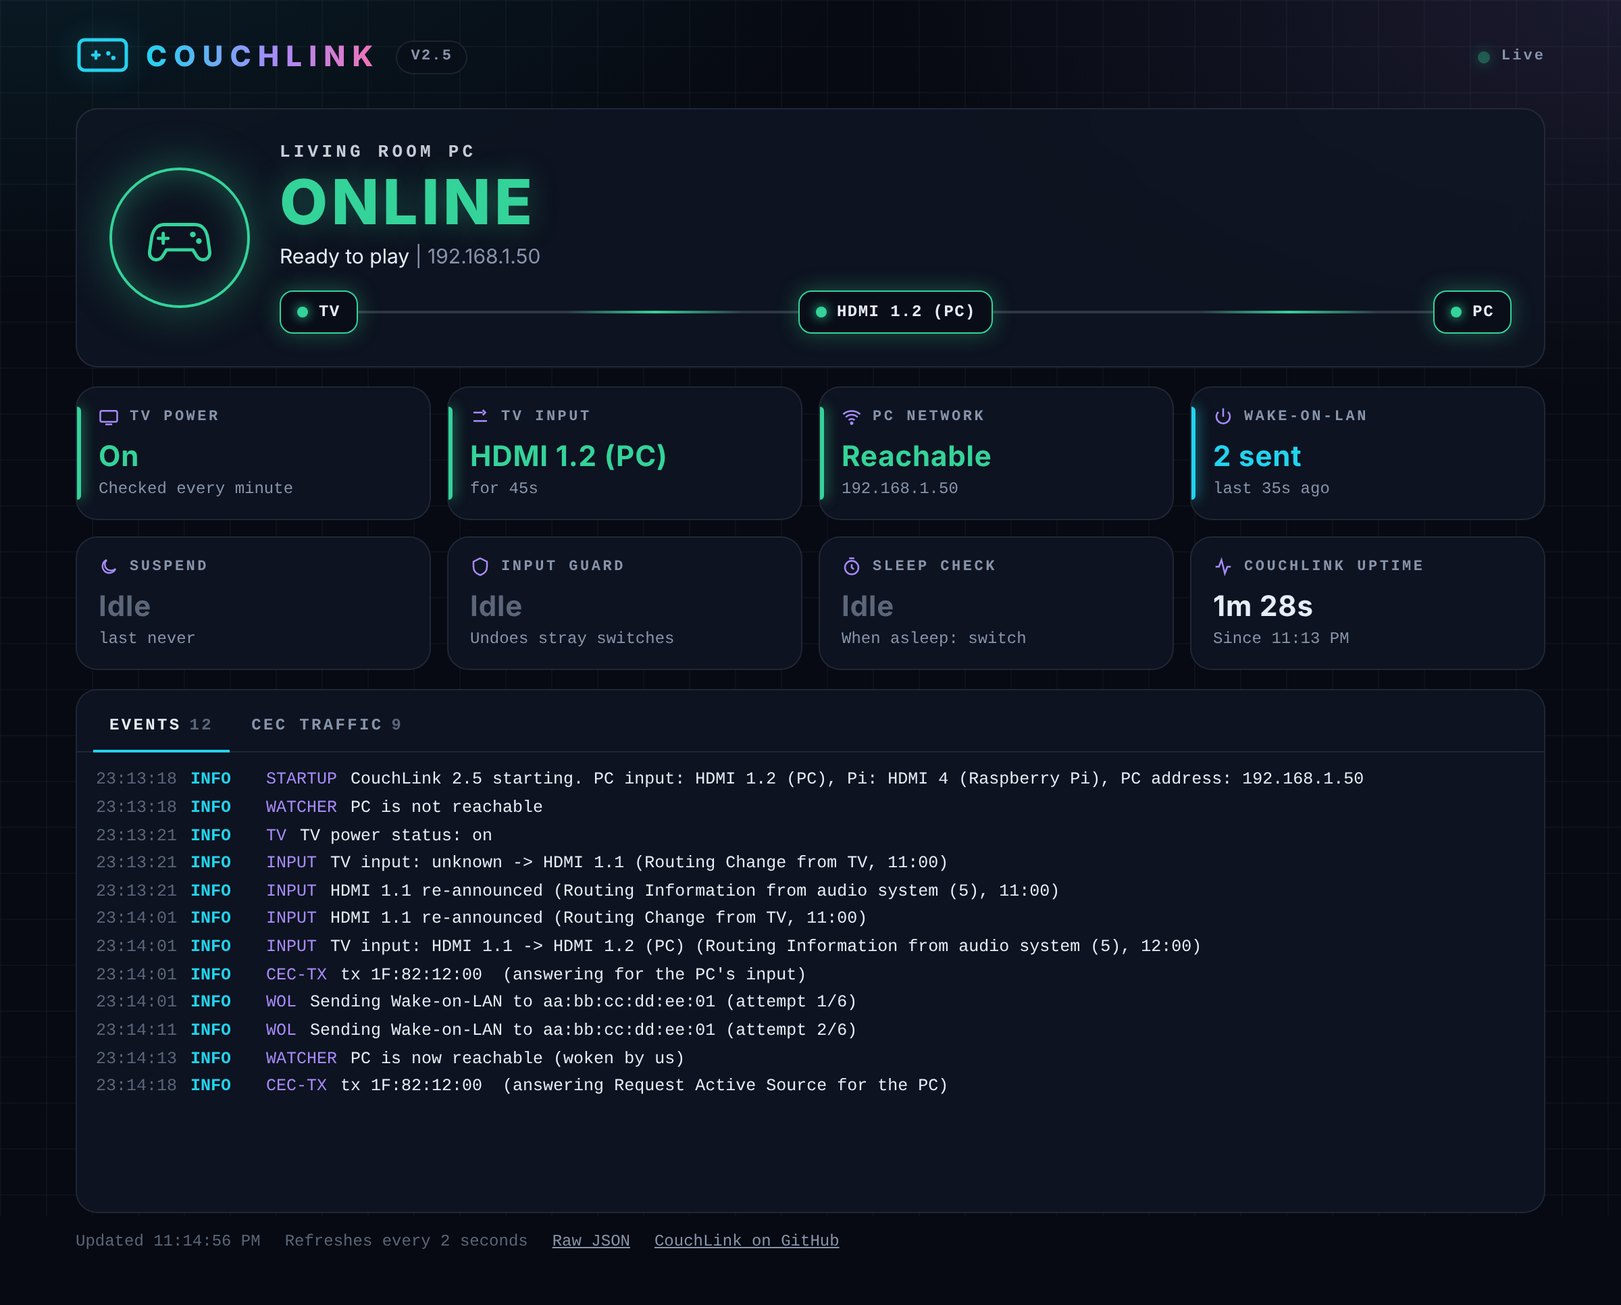
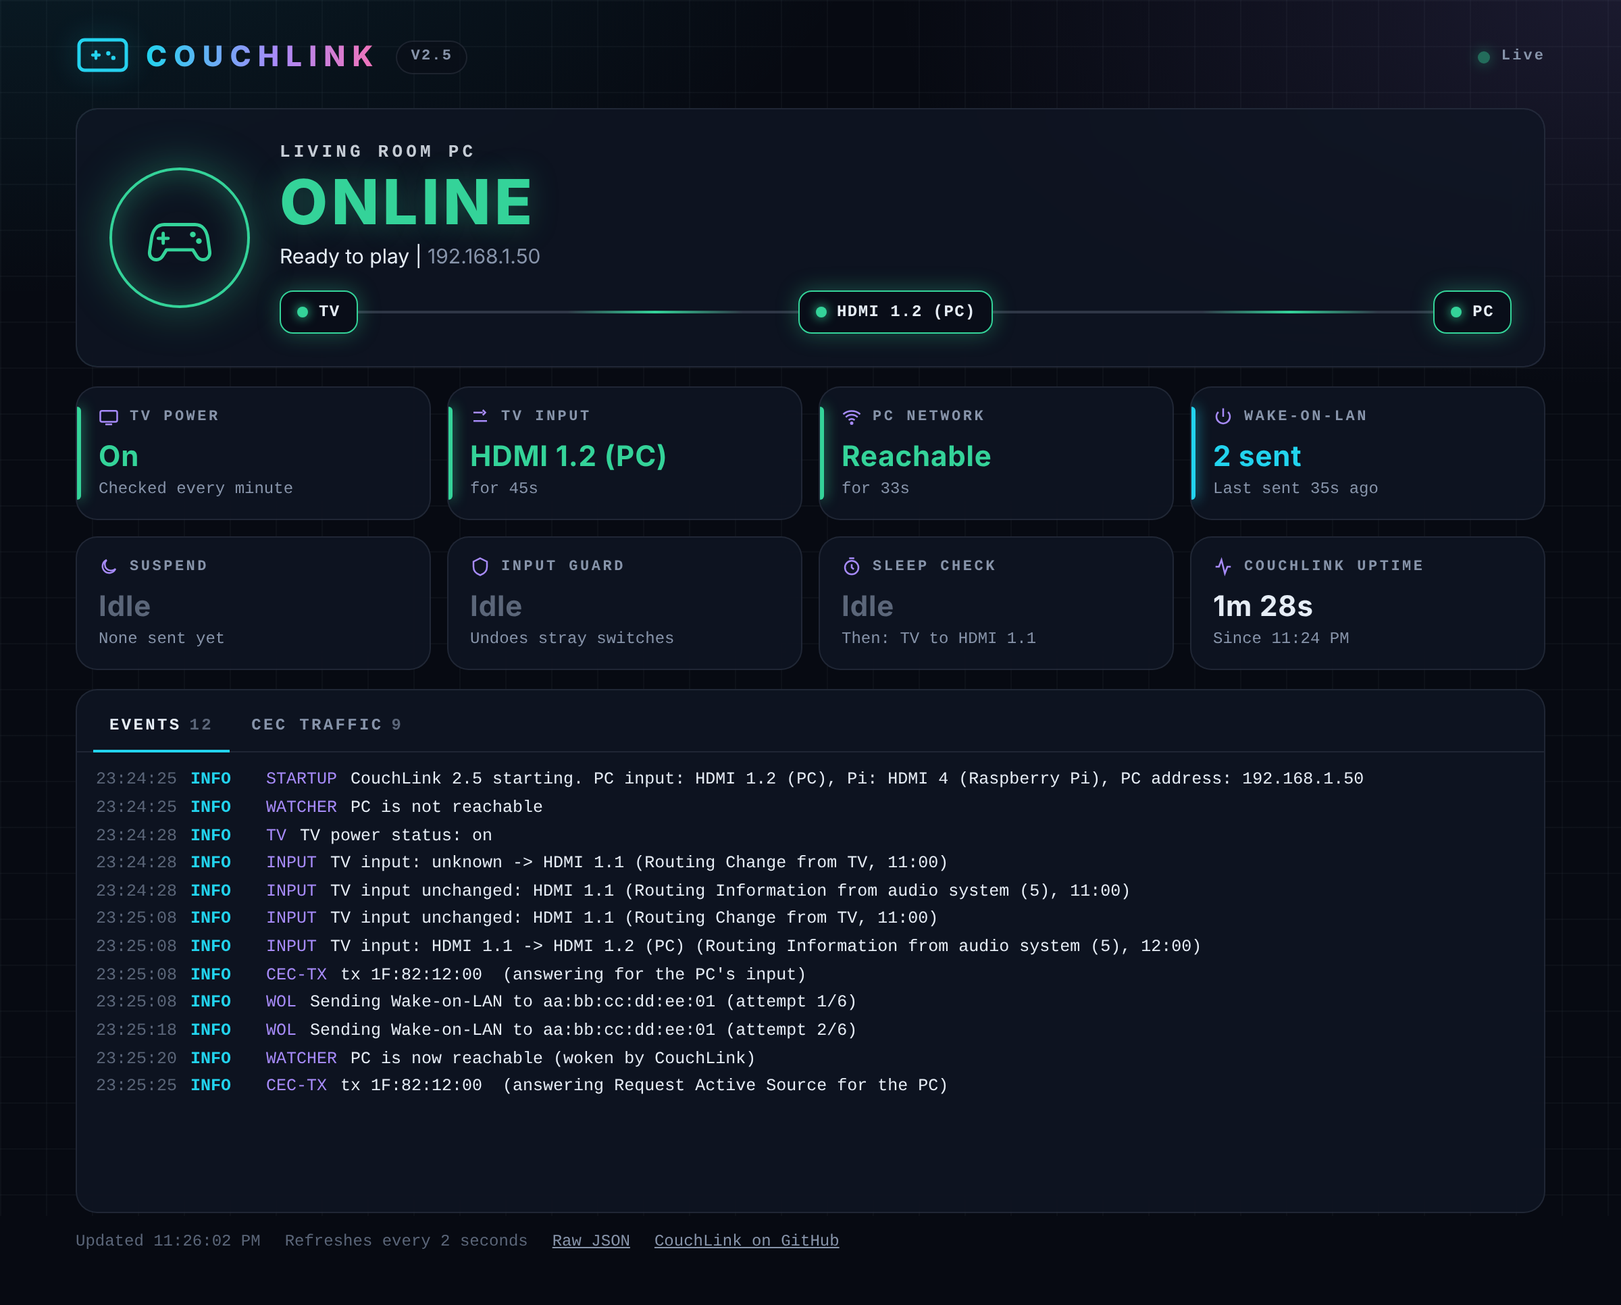
Show how long the PC has been up or down, and reword status text
The PC network tile now says how long the PC has been in its current
state, for example "Reachable / for 1h 20m" or "Off / for 3d 2h". If the
PC was already up or down when CouchLink started, it says "for at least".
The API has new pc_state_seconds and pc_state_since_start fields.

Status page text:
- Wake-on-LAN and Suspend say "Last sent 35s ago" or "None sent yet"
  instead of "last 35s ago" and "last never".
- Sleep check says what happens next, for example "Then: TV to HDMI 1.1",
  instead of "When asleep: switch".
- TV power says how often the TV is checked from power_poll_interval
  instead of always "Checked every minute".
- Clearer status lines, such as "The TV is on another input" and
  "Waiting to hear which input the TV is on".
- On a phone, the PC's address goes on its own line instead of wrapping
  after a separator.
- Durations of a day or more show days, for example "3d 2h".

Log text:
- Input switch recoveries say what the TV did and what CouchLink does
  about it, for example "TV switched to HDMI 4 (Raspberry Pi) while the PC
  is on. Switching it back to the PC".
- "PC went offline while on screen", with a clearer explanation of the
  sleep check.
- "woken by CouchLink" instead of "woken by us", and the auto-switch
  cooldown message says how long ago the last switch was.

Changed region(s): [[0.1875, 0.6832, 0.5938, 0.7143], [0.5938, 0.4658, 0.625, 0.4969], [0.4062, 0.8075, 0.4375, 0.8385]]

diff --git a/couchlink.py b/couchlink.py
@@ -371,6 +371,7 @@ class Controller:
         self.pc_seen_up = False         # PC answered ping during this stay on its input
         self.pc_offline_since = None    # PC dropped off while on screen, waiting to confirm sleep
         self.pc_down_since = None       # PC stopped answering ping
+        self.first_ping_at = None       # first ping result, so "since" times before it are unknown
         self.power_note = None          # (what, time): the PC announced sleep, reboot or poweroff
         self.power_link = None          # (state, time): the power watcher's SSH session, up | closed | lost
         self.timers = []                # (due, description, function)
@@ -439,7 +440,7 @@ class Controller:
         """Record the TV's input. source: tv | self | startup | standby | power."""
         prev = self.tv_input
         if addr == prev:
-            log("INPUT", f"{self.input_name(addr)} re-announced{detail}")
+            log("INPUT", f"TV input unchanged: {self.input_name(addr)}{detail}")
             return False
         self.tv_input = addr
         self.input_since = self.now()
@@ -526,8 +527,8 @@ class Controller:
                 and f"{p[0]}:{p[1]}" == self.cfg.pi_address):
             return
         if self.tv_boot_started is None and self.tv_input in self.pc_set and self.pc_online:
-            log("RECOVER", f"cec-client announced the Pi's own input ({self.input_name(self.cfg.pi_address)}) "
-                           "while the PC is awake. Pulling the TV back to the PC")
+            log("RECOVER", f"cec-client made the Pi the active source ({self.input_name(self.cfg.pi_address)}) "
+                           "while the PC is on. Switching the TV back to the PC")
             self.pull_back("undoing a switch to the Pi's own input")
 
     def on_announcement(self, initiator, opcode, addr):
@@ -539,25 +540,25 @@ class Controller:
         t = self.now()
         if self.tv_input in self.pc_set and addr not in self.pc_set:
             if self.tv_boot_started is not None:
-                log("RECOVER", f"{self.input_name(addr)} announced while the TV is starting{detail}. "
-                               "Ignored: the PC's input is claimed once the TV reports that it is on")
+                log("RECOVER", f"Ignoring {self.input_name(addr)}{detail}: the TV is still starting. "
+                               "It is switched to the PC once it reports that it is on")
                 return
             if t < self.tv_settle_until:
-                log("RECOVER", f"{self.input_name(addr)} announced while the TV finishes starting{detail}. "
-                               "Pulling the TV back to the PC")
+                log("RECOVER", f"TV switched to {self.input_name(addr)} while it was still starting{detail}. "
+                               "Switching it back to the PC")
                 self.pull_back("undoing a switch made while the TV was starting")
                 return
             if addr == self.cfg.pi_address and self.pc_online:
-                log("RECOVER", f"{self.input_name(addr)} announced while the PC is awake{detail}. "
-                               "The Pi's own input is never kept while the PC is on: pulling the TV back")
+                log("RECOVER", f"TV switched to {self.input_name(addr)} while the PC is on{detail}. "
+                               "Switching it back to the PC")
                 self.pull_back("undoing a switch to the Pi's own input")
                 return
         if (self.tv_input in self.pc_set and addr in self.suspects and t < self.guard_until
                 and self.guard_count < self.cfg.max_guard_recoveries):
             self.guard_count += 1
-            log("RECOVER", f"{self.input_name(addr)} announced shortly after switching to the PC{detail}. "
-                           f"Treating it as automatic: pulling the TV back to the PC "
-                           f"({self.guard_count}/{self.cfg.max_guard_recoveries}), not suspending")
+            log("RECOVER", f"TV switched to {self.input_name(addr)} right after switching to the PC{detail}. "
+                           f"Treating it as automatic and switching back "
+                           f"({self.guard_count}/{self.cfg.max_guard_recoveries}). The PC stays awake")
             self.after(self.cfg.guard_delay, "guard",
                        lambda: self.assert_pc_input("undoing an automatic switch after wake"))
             return
@@ -672,6 +673,7 @@ class Controller:
         if online:
             self.lookup_pc_name()
         if prev is None:
+            self.first_ping_at = t
             if online:
                 self.pc_online_since = t
             else:
@@ -689,9 +691,9 @@ class Controller:
                 log("SUSPEND", "Confirmed: the PC went to sleep")
             elif self.desired() == "awake" and self.pc_seen_up:
                 self.pc_offline_since = t
-                log("WATCHER", f"PC dropped off while on screen. If it stays offline for "
-                               f"{self.cfg.pc_sleep_confirm}s it was put to sleep or turned off on purpose, "
-                               f"and it won't be woken again")
+                log("WATCHER", f"PC went offline while on screen. If it stays offline for "
+                               f"{self.cfg.pc_sleep_confirm}s, CouchLink takes it as put to sleep or "
+                               f"turned off on purpose and won't wake it again")
             return
         self.pc_online_since = t
         was = self.power_note[0] if self.power_note else None
@@ -705,15 +707,15 @@ class Controller:
         ours = self.last_wol is not None and t - self.last_wol <= self.cfg.wake_correlation
         d = self.desired()
         if d == "awake":
-            log("WATCHER", "PC is now reachable" + (" (woken by us)" if ours else ""))
+            log("WATCHER", "PC is now reachable" + (" (woken by CouchLink)" if ours else ""))
             # Its HDMI outputs just came alive. This is when a soundbar or TV may switch by itself.
             self.guard_until = max(self.guard_until, t + self.cfg.guard_window)
             self.after(2.0, "soundbar audio", self.request_soundbar_audio)
         elif ours:
-            log("WATCHER", "PC came online after our WoL, but the TV has left its input. "
-                           "It will be suspended")
+            log("WATCHER", "PC woke up from CouchLink's Wake-on-LAN, but the TV has left its input. "
+                           "Putting it back to sleep")
         else:
-            log("WATCHER", "PC came online by itself")
+            log("WATCHER", "PC woke up by itself")
             self.auto_switch_to_pc()
 
     def handle_pc_slept(self):
@@ -740,10 +742,11 @@ class Controller:
         tv_off = self.tv_power == "standby" or self.tv_input == "standby"
         if mode == "never" or (mode == "if_tv_on" and tv_off):
             log("WATCHER", f"Not switching the TV (auto_switch_on_pc_wake = \"{mode}\"). "
-                           "The PC will be suspended if the TV stays elsewhere")
+                           "The PC goes back to sleep if the TV stays on another input")
             return
         if self.last_auto_switch is not None and t - self.last_auto_switch < self.cfg.auto_switch_cooldown:
-            log("WATCHER", "Not switching the TV: auto-switch cooldown")
+            log("WATCHER", f"Not switching the TV: it was switched to the PC less than "
+                           f"{self.cfg.auto_switch_cooldown}s ago (auto_switch_cooldown)")
             return
         self.last_auto_switch = t
         self.cec("on 0", "PC woke by itself: turning the TV on")
@@ -781,7 +784,7 @@ class Controller:
     def on_suspend_done(self, returncode, detail):
         self.suspend_inflight = False
         if returncode == 0:
-            log("SUSPEND", "Suspend command accepted, waiting for the PC to drop off the network")
+            log("SUSPEND", "Suspend command accepted, waiting for the PC to go offline")
         elif returncode == 255:
             log("SUSPEND", f"SSH ended with 255 ({detail or 'connection closed'}). That can be "
                            "normal if the PC suspended mid-command. Checking with ping", level="WARN")
@@ -864,8 +867,8 @@ class Controller:
         if self.last_suspend is not None and t - self.last_suspend < self.cfg.suspend_retry_interval:
             return
         if self.suspend_attempts >= self.cfg.max_suspend_attempts:
-            log("SUSPEND", f"Giving up after {self.suspend_attempts} attempts. The PC is still "
-                           f"reachable while the TV is on {self.input_name(self.tv_input)}", level="ERROR")
+            log("SUSPEND", f"Giving up after {self.suspend_attempts} suspend attempts. The PC still "
+                           f"answers while the TV is on {self.input_name(self.tv_input)}", level="ERROR")
             self.sleep_gave_up = True
             return
         self.suspend_attempts += 1
@@ -877,6 +880,16 @@ class Controller:
         self.actions.suspend()
 
     # ---- status ---------------------------------------------------------
+    def pc_state_started(self):
+        """When the PC last came up or went down, as far as CouchLink has seen."""
+        if self.pc_online is None:
+            return None
+        return self.pc_online_since if self.pc_online else self.pc_down_since
+
+    def pc_state_seconds(self, t):
+        since = self.pc_state_started()
+        return int(t - since) if since is not None else None
+
     def snapshot(self):
         t = self.now()
         return {
@@ -888,6 +901,9 @@ class Controller:
             "pc_should_be": self.desired() or "unknown",
             "pc_reachable": self.pc_online,
             "pc_power": self.power_state() or "unknown",
+            "pc_state_seconds": self.pc_state_seconds(t),
+            "pc_state_since_start": (self.first_ping_at is not None
+                                     and self.pc_state_started() == self.first_ping_at),
             "wol_attempts": self.wol_attempts,
             "suspend_attempts": self.suspend_attempts,
             "guard_active": t < self.guard_until and self.tv_input in self.pc_set,
@@ -899,6 +915,9 @@ class Controller:
             "pc_name": self.pc_name,
             "pc_inputs": [self.input_name(a) for a in self.cfg.pc_addresses],
             "on_pc_sleep": self.cfg.on_pc_sleep,
+            "on_pc_sleep_target": (self.input_name(self.cfg.pc_sleep_switch_to)
+                                   if self.cfg.pc_sleep_switch_to else None),
+            "power_poll_interval": self.cfg.power_poll_interval,
             "last_wol_seconds_ago": int(t - self.last_wol) if self.last_wol is not None else None,
             "last_suspend_seconds_ago": int(t - self.last_suspend) if self.last_suspend is not None else None,
             "uptime_seconds": int(t - self.started_at),
@@ -1346,6 +1365,8 @@ footer a { color: var(--muted); }
   .orb svg { width: 34px; height: 34px; }
   .state { font-size: 28px; }
   .sub { font-size: 14px; }
+  .sub .sep { display: none; }
+  .sub .muted { display: block; }
   .path { margin-left: -80px; }
   .node { padding: 7px 9px; font-size: 11px; }
   .grid { gap: 10px; }
@@ -1439,11 +1460,18 @@ footer a { color: var(--muted); }
     if (s === null || s === undefined) return "-";
     s = Math.max(0, Math.floor(s));
     var h = Math.floor(s / 3600), m = Math.floor((s % 3600) / 60), x = s % 60;
+    var days = Math.floor(h / 24);
+    if (days) return days + "d " + (h % 24) + "h";
     if (h) return h + "h " + m + "m";
     if (m) return m + "m " + x + "s";
     return x + "s";
   }
-  function ago(s) { return (s === null || s === undefined) ? "never" : dur(s) + " ago"; }
+  function lastSent(s) { return (s === null || s === undefined) ? "None sent yet" : "Last sent " + dur(s) + " ago"; }
+  function every(s) {
+    if (!s) return "Checked at startup";
+    if (s % 60 === 0) return s === 60 ? "Checked every minute" : "Checked every " + s / 60 + " minutes";
+    return "Checked every " + s + "s";
+  }
   function set(id, text, cls) {
     var el = $(id);
     el.textContent = text;
@@ -1455,14 +1483,14 @@ footer a { color: var(--muted); }
     var want = d.pc_should_be, up = d.pc_reachable, power = d.pc_power;
     var waiting = want === "awake" ? "The TV is still on the PC's input" : "Waiting for the TV to switch to it";
     if (want === "awake" && up) return ["online", "Online", "Ready to play"];
-    if (want === "asleep" && up) return ["sleeping", "Going to sleep", "TV is elsewhere, suspending the PC"];
-    if (power === "restarting") return ["waking", "Restarting", "The PC is restarting"];
-    if (want === "awake" && d.wol_attempts) return ["waking", "Waking up", "Sending Wake-on-LAN"];
+    if (want === "asleep" && up) return ["sleeping", "Going to sleep", "The TV is on another input"];
+    if (power === "restarting") return ["waking", "Restarting", "Waiting for the PC to come back"];
+    if (want === "awake" && d.wol_attempts) return ["waking", "Waking up", "Sending Wake-on-LAN to the PC"];
     if (power === "off") return ["off", "Off", waiting];
     if (power === "asleep") return ["asleep", "Asleep", waiting];
-    if (want === "awake") return ["waking", "Waking up", "Sending Wake-on-LAN"];
+    if (want === "awake") return ["waking", "Waking up", "Sending Wake-on-LAN to the PC"];
     if (want === "asleep") return ["asleep", "Asleep or off", waiting];
-    return ["unknown", "Standing by", "Waiting for the TV to announce an input"];
+    return ["unknown", "Standing by", "Waiting to hear which input the TV is on"];
   }
 
   function render(d) {
@@ -1475,10 +1503,8 @@ footer a { color: var(--muted); }
     var sub = $("sub");
     sub.textContent = "";
     sub.appendChild(document.createTextNode(v[2]));
-    var hint = document.createElement("span");
-    hint.className = "muted";
-    hint.textContent = "  |  " + (d.pc_host || "PC");
-    sub.appendChild(hint);
+    sub.appendChild(span("sep", "  |  "));
+    sub.appendChild(span("muted", d.pc_host || "PC"));
 
     $("version").textContent = "v" + d.version;
     $("dry").hidden = !d.dry_run;
@@ -1494,7 +1520,7 @@ footer a { color: var(--muted); }
 
     var power = d.tv_power === "on" ? ["On", "good"] : d.tv_power === "standby" ? ["Standby", "calm"] : ["Unknown", "dim"];
     set("vTv", power[0], power[1]);
-    $("hTv").textContent = "Checked every minute";
+    $("hTv").textContent = every(d.power_poll_interval);
     accent("tTv", d.tv_power === "on" ? "var(--green)" : null);
 
     set("vIn", d.tv_input, onPc ? "good" : "");
@@ -1504,15 +1530,16 @@ footer a { color: var(--muted); }
     var offline = {asleep: "Asleep", off: "Off", restarting: "Restarting"}[d.pc_power] || "Offline";
     set("vNet", d.pc_reachable === null ? "Checking" : d.pc_reachable ? "Reachable" : offline,
         d.pc_reachable ? "good" : d.pc_reachable === false ? "calm" : "dim");
-    $("hNet").textContent = d.pc_host || "-";
+    $("hNet").textContent = d.pc_state_seconds === null || d.pc_state_seconds === undefined ? "-"
+        : (d.pc_state_since_start ? "for at least " : "for ") + dur(d.pc_state_seconds);
     accent("tNet", d.pc_reachable ? "var(--green)" : null);
 
     set("vWol", d.wol_attempts ? d.wol_attempts + " sent" : "Idle", d.wol_attempts ? "cool" : "dim");
-    $("hWol").textContent = "last " + ago(d.last_wol_seconds_ago);
+    $("hWol").textContent = lastSent(d.last_wol_seconds_ago);
     accent("tWol", d.wol_attempts ? "var(--cyan)" : null);
 
     set("vSus", d.suspend_attempts ? d.suspend_attempts + " sent" : "Idle", d.suspend_attempts ? "warn" : "dim");
-    $("hSus").textContent = "last " + ago(d.last_suspend_seconds_ago);
+    $("hSus").textContent = lastSent(d.last_suspend_seconds_ago);
     accent("tSus", d.suspend_attempts ? "var(--amber)" : null);
 
     set("vGuard", d.guard_active ? "Armed" : "Idle", d.guard_active ? "cool" : "dim");
@@ -1521,7 +1548,8 @@ footer a { color: var(--muted); }
 
     var left = d.pc_sleep_check_seconds_left;
     set("vSleep", left === null || left === undefined ? "Idle" : left + "s", left === null || left === undefined ? "dim" : "warn");
-    $("hSleep").textContent = "When asleep: " + (d.on_pc_sleep || "nothing");
+    $("hSleep").textContent = {switch: "Then: TV to " + (d.on_pc_sleep_target || "another input"),
+                               standby: "Then: TV off"}[d.on_pc_sleep] || "Then: TV left alone";
     accent("tSleep", left === null || left === undefined ? null : "var(--amber)");
 
     set("vUp", dur(d.uptime_seconds), "");

diff --git a/test_couchlink.py b/test_couchlink.py
@@ -321,7 +321,7 @@ class FlowTests(unittest.TestCase):
         s.run(25)                                       # past guard
         s.ev(msg("0f:86:00:00"))                        # user leaves before PC is up
         s.run(2)
-        s.pc(True)                                      # PC finishes waking from our WoL
+        s.pc(True)                                      # PC finishes waking from CouchLink's WoL
         s.run(6)
         self.assertNotIn("on 0", s.act.cec)
         self.assertEqual(s.act.suspends, 1)
@@ -1211,6 +1211,28 @@ class PcPowerTests(unittest.TestCase):
         self.assertEqual(s.act.suspends, 1)
         s.pc(False)
         self.assertEqual(self.power(s), "asleep")
+
+    def test_up_and_down_time(self):
+        s = Sim(**REAL)
+        snap = s.ctl.snapshot()
+        self.assertIsNone(snap["pc_state_seconds"])     # no ping yet
+        s.pc(True)
+        s.run(100)
+        snap = s.ctl.snapshot()
+        self.assertEqual(snap["pc_state_seconds"], 100)
+        self.assertTrue(snap["pc_state_since_start"])   # it was already up when CouchLink started
+        s.pc(False)
+        s.run(30)
+        snap = s.ctl.snapshot()
+        self.assertEqual(snap["pc_state_seconds"], 30)
+        self.assertFalse(snap["pc_state_since_start"])  # CouchLink saw it go down
+        s.pc(True)
+        self.assertEqual(s.ctl.snapshot()["pc_state_seconds"], 0)
+
+    def test_status_page_describes_the_sleep_action(self):
+        snap = Sim(**REAL).ctl.snapshot()
+        self.assertEqual((snap["on_pc_sleep"], snap["on_pc_sleep_target"]), ("switch", "HDMI 1.1"))
+        self.assertEqual(snap["power_poll_interval"], 60)
 
     def test_setting_validated(self):
         _, problems = couchlink.validate(dict(BASE, watch_pc_power="yes"))

diff --git a/docs/status-page-and-logs.md b/docs/status-page-and-logs.md
@@ -16,9 +16,11 @@ It shows:
   [Sleep, power-off and restarts](how-it-works.md#sleep-power-off-and-restarts)
   for how CouchLink tells them apart. The name comes from `pc_name`, or from the PC's
   own hostname if that is not set.
-- TV power and input, whether the PC answers on the network, Wake-on-LAN and
-  suspend attempts, the input guard, the sleep check, and how long CouchLink
-  has been running.
+- TV power and input, and how long the TV has been on that input.
+- Whether the PC is up, asleep or off, and for how long. If it was already
+  like that when CouchLink started, it says "for at least".
+- Wake-on-LAN and suspend attempts, the input guard, the sleep check and what
+  happens after it, and how long CouchLink has been running.
 - Recent events and raw CEC traffic, each in its own tab.
 - Links to the raw JSON and to this repository.
 

diff --git a/docs/installation.md b/docs/installation.md
@@ -83,7 +83,7 @@ of these:
 | Switch to another input | The new input, then about 5 seconds later `Would run: ssh deck@192.168.1.50 sudo -n systemctl suspend` |
 | Turn the TV off | `Standby broadcast from the TV`, then a suspend |
 | Turn only the soundbar off | `Standby from audio system (5)`, `TV power status: on`, and no suspend |
-| Put the PC to sleep from its own menu | `PC dropped off while on screen`, then about 12 seconds later the `on_pc_sleep` action |
+| Put the PC to sleep from its own menu | `PC went offline while on screen`, then about 12 seconds later the `on_pc_sleep` action |
 
 A dry run does not send the commands that pull the TV back to the PC, so
 automatic input switches will not be undone during it. That only works live.
